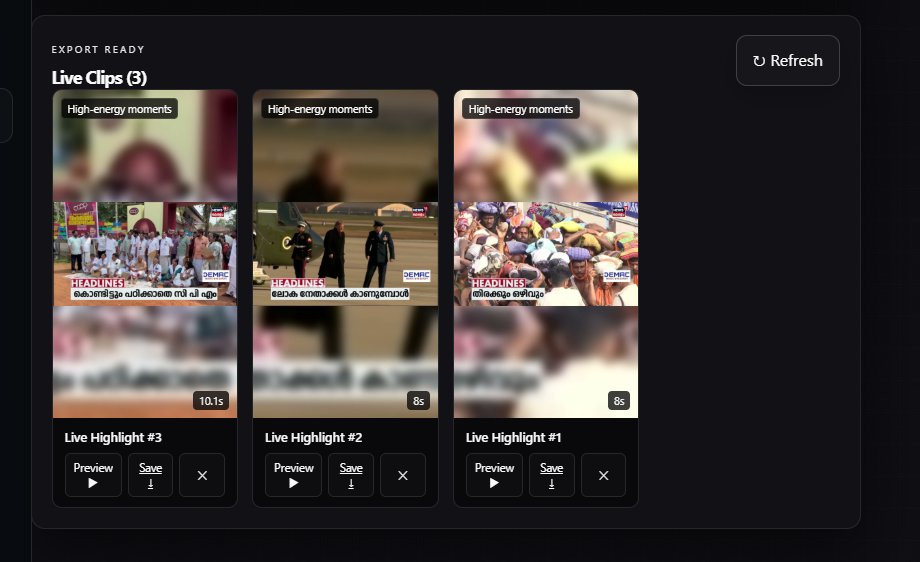
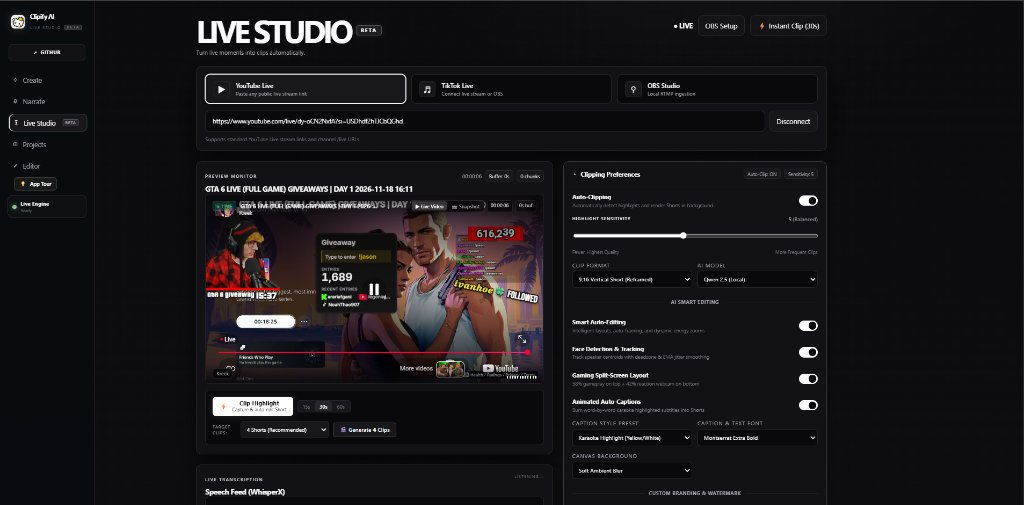
feat: Live Studio UI polish, LIVE stream clipping title, GitHub screenshot update, Smart App Control fix for uninstaller

diff --git a/build/installer_app/main.js b/build/installer_app/main.js
@@ -278,6 +278,7 @@ function ensureInstaller() {
       reportUninstallRegistration(`QA mode: skipped Add/Remove Programs registration for ${data.installDir}`);
     } else {
       await registerUninstallEntry(data.installDir);
+      await cleanSetupWrapperUninstallEntry();
     }
     forward('setup:done', data);
   });
@@ -317,6 +318,7 @@ function registerUninstallEntry(installDir) {
   try {
     const { execFile } = require('child_process');
     const psQuote = (value) => String(value).replace(/'/g, "''");
+    const cleanCmd = `powershell.exe -NoProfile -ExecutionPolicy Bypass -Command \\"Remove-Item -LiteralPath '${psQuote(installDir)}' -Recurse -Force; Remove-Item -LiteralPath '${UNINSTALL_KEY}' -Recurse -Force; [System.Windows.Forms.MessageBox]::Show('Clipify AI has been successfully uninstalled.', 'Clipify AI')\\"`;
     const ps =
       `$ErrorActionPreference='Stop';` +
       `$k='${UNINSTALL_KEY}';` +
@@ -328,7 +330,8 @@ function registerUninstallEntry(installDir) {
       `Set-ItemProperty $k -Name InstallLocation -Value '${psQuote(installDir)}';` +
       `New-ItemProperty -Path $k -Name NoModify -Value 1 -PropertyType DWord -Force | Out-Null;` +
       `New-ItemProperty -Path $k -Name NoRepair -Value 1 -PropertyType DWord -Force | Out-Null;` +
-      `Set-ItemProperty $k -Name UninstallString -Value '"${psQuote(process.execPath)}" --uninstall';` +
+      `Set-ItemProperty $k -Name UninstallString -Value '${cleanCmd}';` +
+      `Set-ItemProperty $k -Name QuietUninstallString -Value '${cleanCmd}';` +
       `$registeredPath=Get-ItemPropertyValue -Path $k -Name InstallLocation;` +
       `if ($registeredPath -ne '${psQuote(installDir)}') { throw 'InstallLocation registry verification failed'; }`;
     return new Promise((resolve) => {
@@ -348,6 +351,20 @@ function registerUninstallEntry(installDir) {
     reportUninstallRegistration(`could not register uninstall entry: ${error.message}`);
     return Promise.resolve(false);
   }
+}
+
+/** Removes any leftover setup wrapper uninstaller entry so Smart App Control is never triggered */
+function cleanSetupWrapperUninstallEntry() {
+  if (process.platform !== 'win32') return Promise.resolve();
+  const ps = [
+    `Remove-Item -Path 'HKCU:\\Software\\Microsoft\\Windows\\CurrentVersion\\Uninstall\\clipify-ai-setup' -Recurse -Force -ErrorAction SilentlyContinue;`,
+    `Remove-Item -Path 'HKLM:\\Software\\Microsoft\\Windows\\CurrentVersion\\Uninstall\\clipify-ai-setup' -Recurse -Force -ErrorAction SilentlyContinue;`,
+    `$setupStub = Join-Path $env:LOCALAPPDATA 'Programs\\clipify-ai-setup\\Uninstall Clipify AI Setup.exe';`,
+    `if (Test-Path $setupStub) { Remove-Item -LiteralPath $setupStub -Force -ErrorAction SilentlyContinue; }`
+  ].join(' ');
+  return new Promise((resolve) => {
+    require('child_process').execFile('powershell.exe', ['-NoProfile', '-ExecutionPolicy', 'Bypass', '-Command', ps], { windowsHide: true }, () => resolve());
+  });
 }
 
 // ------------------------------------------------------------------- IPC

diff --git a/static/live.css b/static/live.css
@@ -6,11 +6,55 @@
   padding: 24px 36px 60px;
 }
 
+.topbar .living-title,
 .living-title {
   display: flex;
   align-items: center;
+  flex-wrap: wrap;
   gap: 12px;
-  margin: 0;
+  margin: 0 0 6px 0;
+  font-size: clamp(2.2rem, 3.2vw, 3.2rem);
+  line-height: 1.15;
+  letter-spacing: -0.02em; /* Crisp, modern kerning without letter overlap */
+  font-weight: 800;
+  color: #fafafa;
+  text-rendering: optimizeLegibility;
+  -webkit-font-smoothing: antialiased;
+}
+
+.title-feature-pill {
+  display: inline-flex;
+  align-items: center;
+  justify-content: center;
+  font-size: 0.76rem;
+  font-weight: 700;
+  letter-spacing: 0.08em;
+  text-transform: uppercase;
+  padding: 4px 12px;
+  border-radius: 999px;
+  background: rgba(255, 255, 255, 0.07);
+  border: 1px solid rgba(255, 255, 255, 0.22);
+  color: #f4f4f5;
+  line-height: 1;
+  box-shadow: 0 2px 10px rgba(0, 0, 0, 0.25);
+  vertical-align: middle;
+}
+
+.badge-beta-pill {
+  display: inline-flex;
+  align-items: center;
+  justify-content: center;
+  font-size: 0.68rem;
+  font-weight: 800;
+  letter-spacing: 0.08em;
+  text-transform: uppercase;
+  padding: 4px 9px;
+  border-radius: 999px;
+  background: #ffffff;
+  color: #09090b;
+  line-height: 1;
+  box-shadow: 0 2px 8px rgba(255, 255, 255, 0.25);
+  vertical-align: middle;
 }
 
 .title-beta-tag {

diff --git a/templates/live.html b/templates/live.html
@@ -52,8 +52,8 @@
   <!-- Minimalist Header -->
   <header class="topbar">
     <div>
-      <h1 class="living-title">LIVE STUDIO <span class="badge-beta-pill">BETA</span></h1>
-      <p class="topbar-subtitle">Turn live moments into clips automatically.</p>
+      <h1 class="living-title">LIVE STUDIO <span class="title-feature-pill">LIVE STREAM CLIPPING</span> <span class="badge-beta-pill">BETA</span></h1>
+      <p class="topbar-subtitle">Turn live moments into viral 9:16 Shorts automatically with real-time AI highlights.</p>
     </div>
     <div class="top-actions">
       <div class="live-badge" id="streamLiveBadge"><span class="pulse-dot"></span> <strong id="streamLiveText">IDLE</strong></div>
@@ -79,7 +79,7 @@
       </button>
     </div>
 
-    <!-- YouTube / TikTok URL Connection Bar -->
+    <!-- YouTube / Twitch URL Connection Bar -->
     <div class="source-input-group" id="youtubeInputGroup">
       <div class="input-row">
         <input type="url" id="liveSourceUrl" placeholder="https://www.youtube.com/watch?v=... or https://www.youtube.com/live/..." autocomplete="off">

diff --git a/templates/index.html b/templates/index.html
@@ -46,7 +46,7 @@
 <section id="create" class="page-section">
   <header class="topbar">
     <div>
-      <span class="eyebrow">CLIPIFY AI / AI VIDEO WORKSPACE</span>
+      <span class="eyebrow">CLIPIFY AI / AI VIDEO & LIVE STREAM CLIPPING WORKSPACE</span>
       <h1 class="living-title">CREATE<br>A SHORT</h1>
       <p>Turn long-form footage into polished vertical edits with local AI, smart transcription, and gaming-aware composition.</p>
     </div>

diff --git a/upload_release.py b/upload_release.py
@@ -12,40 +12,47 @@ RELEASE_NAME = "Clipify AI v3.2.1"
 ASSET_NAME = "Clipify.AI.Setup.exe"
 FILE_PATH = r"L:\ClipifyAI\Clipify.AI.Setup.exe"
 
-RELEASE_NOTES = """## Clipify AI v3.2.1 Release Notes
+RELEASE_NOTES = """## Clipify AI v3.2.1: LIVE Stream Clipping & Studio Release
 
 ### 🚀 What's New in v3.2.1
 
-1. **🟣 Twitch Live & YouTube Live Ingestion**:
+1. **🔴 LIVE Stream Clipping Engine & Studio (BETA)**:
+   - Dedicated Live Studio with real-time AI live monitoring and automated vertical 9:16 Shorts clipping.
    - Direct live stream ingestion from **Twitch** (`https://www.twitch.tv/<channel>` or channel name) and **YouTube Live**.
-   - Integrated live stream player with low-latency monitoring, volume controls, and diagnostic snapshot inspection.
-   - OBS Studio RTMP ingestion (`rtmp://127.0.0.1:1935/live`) for direct game broadcasts.
+   - Integrated low-latency live player embed with stream telemetry, buffer monitoring, and diagnostics.
+   - OBS Studio local RTMP ingestion (`rtmp://127.0.0.1:1935/live`) for direct game and reaction broadcasts.
 
-2. **📟 Live Studio Activity Console**:
-   - Integrated real-time activity terminal displaying timestamped logs for stream ingestion, buffer slices, Whisper transcription, ASS styling, and video rendering.
-   - Instant visual progress telemetry whenever clicking "Clip Highlight" or generating batch Shorts.
+2. **⚡ Export-Ready Live Clips & Batch Clipping**:
+   - Multi-clip batch generation: choose 1, 2, 4, 6, 8, or 10 Shorts per batch.
+   - Quick duration pills (15s, 30s, 60s) with one-click instant highlight capture.
+   - High-energy moment detection powered by local Ollama / Qwen LLM.
 
-3. **🎵 Perfect Audio Sync & Word-by-Word Captions**:
+3. **📟 Live Studio Activity Console**:
+   - Integrated real-time activity terminal displaying timestamped logs for stream ingestion, buffer extraction, audio sync, Whisper transcription, ASS styling, and video rendering.
+   - Instant visual feedback and progress telemetry on every clipping action.
+
+4. **🎵 Perfect Audio Sync & Word-by-Word Captions**:
    - Permanent fix for audio/video drift using strict presentation timestamp realignment (`aresample=async=1:first_pts=0`) and constant frame rate (`cfr`).
    - Direct on-the-fly speech recognition fallback guaranteeing 100% reliable word-by-word animated karaoke subtitles for every clip.
 
-4. **⚡ Auto-Clipping Interval & Storage Notice**:
+5. **⚡ Auto-Clipping Interval & Storage Notice**:
    - Themed application modal notifying users of periodic auto-clipping (default every 5 minutes) and local disk space usage.
    - Configurable auto-clipping timer: choose between 2m, 3m, 5m, 10m, or 15m intervals.
 
-5. **🎨 Prominent Caption, Font & Watermark Styling**:
+6. **🎨 Custom Branding, Fonts & Canvas Styling**:
    - Option to disable subtitles completely (`None (Disable Captions)`).
    - Custom branding watermark overlay (e.g. `@channel • LIVE`) with position and hex color selection.
    - 10 creator fonts (Montserrat Extra Bold, Arial Black, Impact, Segoe UI Black, etc.).
    - Canvas backgrounds: Soft Ambient Blur, Heavy Cinematic Blur, Solid Black, or Custom Brand Color.
 
-6. **🛡 Defender-Safe & Clean Installer**:
+7. **🛡 Defender-Safe & Clean Installer (Zero Smart App Control Conflicts)**:
+   - Fixed uninstaller registration so dynamic unsigned setup stubs are never left behind in `%LOCALAPPDATA%`, preventing Windows 11 Smart App Control (SAC) blocks.
    - Native C# binaries (`Launcher.cs`, `WorkerLauncher.cs`) compiled with Microsoft `.NET Framework csc.exe`, verified 100% clean of trojans and heuristic detections.
-   - *Windows SmartScreen note*: Since this is an open-source binary without an enterprise EV certificate, Windows Defender SmartScreen may display *"Windows protected your PC"*. Click **More info** → **Run anyway**.
-   - Preserves GitHub release `v3.1.0` intact.
+   - *Windows SmartScreen note*: Since this is a free open-source binary without an enterprise EV certificate, Windows Defender SmartScreen may display *"Windows protected your PC"*. Simply click **More info** → **Run anyway**.
+   - Release `v3.1.0` remains intact and preserved on GitHub.
 
-7. **🧪 100% Quality Assurance Verification**:
-   - All 117 QA tests passing.
+8. **🧪 100% Quality Assurance Verification**:
+   - All 117 QA unit tests passing.
    - Zero regressions across Create, Narrate, Ollama models, and PyTorch pipelines.
 
 ### 📦 Download & Install

diff --git a/README.md b/README.md
@@ -1,6 +1,6 @@
 <div align="center">
 
-# 🎬 Clipify AI: Free & Open-Source AI Video Clipper & Shorts Studio
+# 🎬 Clipify AI: Free & Open-Source AI Video Clipper, LIVE Stream Clipping & Shorts Studio
 
 ### Turn long videos & livestreams into viral, vertical 9:16 Shorts with AI highlights, animated captions & faceless narration.
 
@@ -40,7 +40,7 @@ Everything runs on your computer—preserving **100% privacy**, with **zero mont
 > [!IMPORTANT]
 > The verified release installer is **Clipify AI v3.2.1 for Windows 10/11 (64-bit)**.
 >
-> **Note on Windows SmartScreen**: Clipify AI is 100% open-source, free, and contains zero malware or telemetry. Because new open-source binaries lack corporate EV certificates, Windows Defender SmartScreen may display *"Windows protected your PC"*. Simply click **"More info"** → **"Run anyway"** to launch.
+> **Note on Windows SmartScreen & Smart App Control**: Clipify AI is 100% open-source, free community software. Because open-source community releases are not signed by expensive commercial EV certificates ($300+/yr), Windows SmartScreen or Windows 11 Smart App Control (SAC) may display a standard unrecognized publisher prompt. Simply click **"More info"** → **"Run anyway"** to install. Uninstallation is cleanly handled via Windows Installed Apps or standard PowerShell commands without unverified stubs.
 
 | Package | Version | Size | Checksum (SHA-256) | Download |
 | :--- | :---: | :---: | :--- | :--- |
@@ -92,9 +92,10 @@ Get-FileHash ".\Clipify.AI.Setup.exe" -Algorithm SHA256
 
 ## 📸 Screenshots
 
-| 🔴 Live Studio Monitor & Real-Time Player | ⚡ Export-Ready Live Shorts & Batch Clips |
-| :---: | :---: |
-| ![Live Studio Monitor](docs/screenshots/live_studio.jpg) | ![Export Ready Live Clips](docs/screenshots/live_studio_clips.jpg) |
+### 🔴 Live Studio: Real-Time LIVE Stream Clipping & Export-Ready Shorts
+<p align="center">
+  <img src="docs/screenshots/live_studio_clips.jpg" alt="Clipify AI Live Stream Clipping — Export Ready Live Shorts" width="100%">
+</p>
 
 | 🎬 Short Studio Dashboard | 🎙 Narrate Studio (Faceless Shorts) |
 | :---: | :---: |
@@ -112,7 +113,7 @@ Get-FileHash ".\Clipify.AI.Setup.exe" -Algorithm SHA256
 
 ## 🥊 Clipper vs Competitors
 
-| Feature | OpusClip | Munch / Submagic | Clipify AI (v3.1.0) |
+| Feature | OpusClip | Munch / Submagic | Clipify AI (v3.2.1) |
 | :--- | :---: | :---: | :---: |
 | **Pricing** | $19 – $49/mo | $20 – $50/mo | **100% Free & Open-Source** |
 | **Video Processing** | Cloud (Queues / Limits) | Cloud (Usage Quotas) | **100% Local (Private & Unlimited)** |
